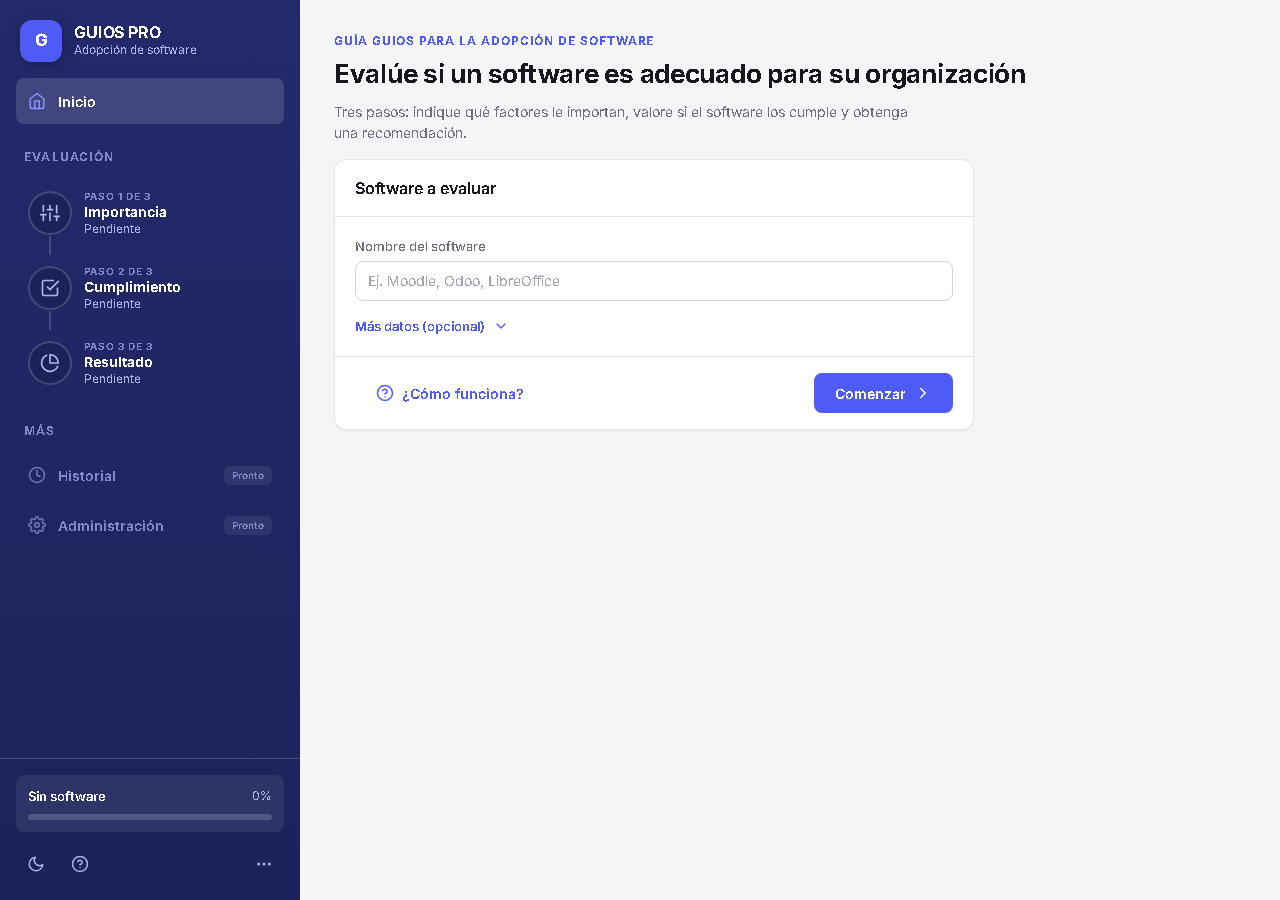
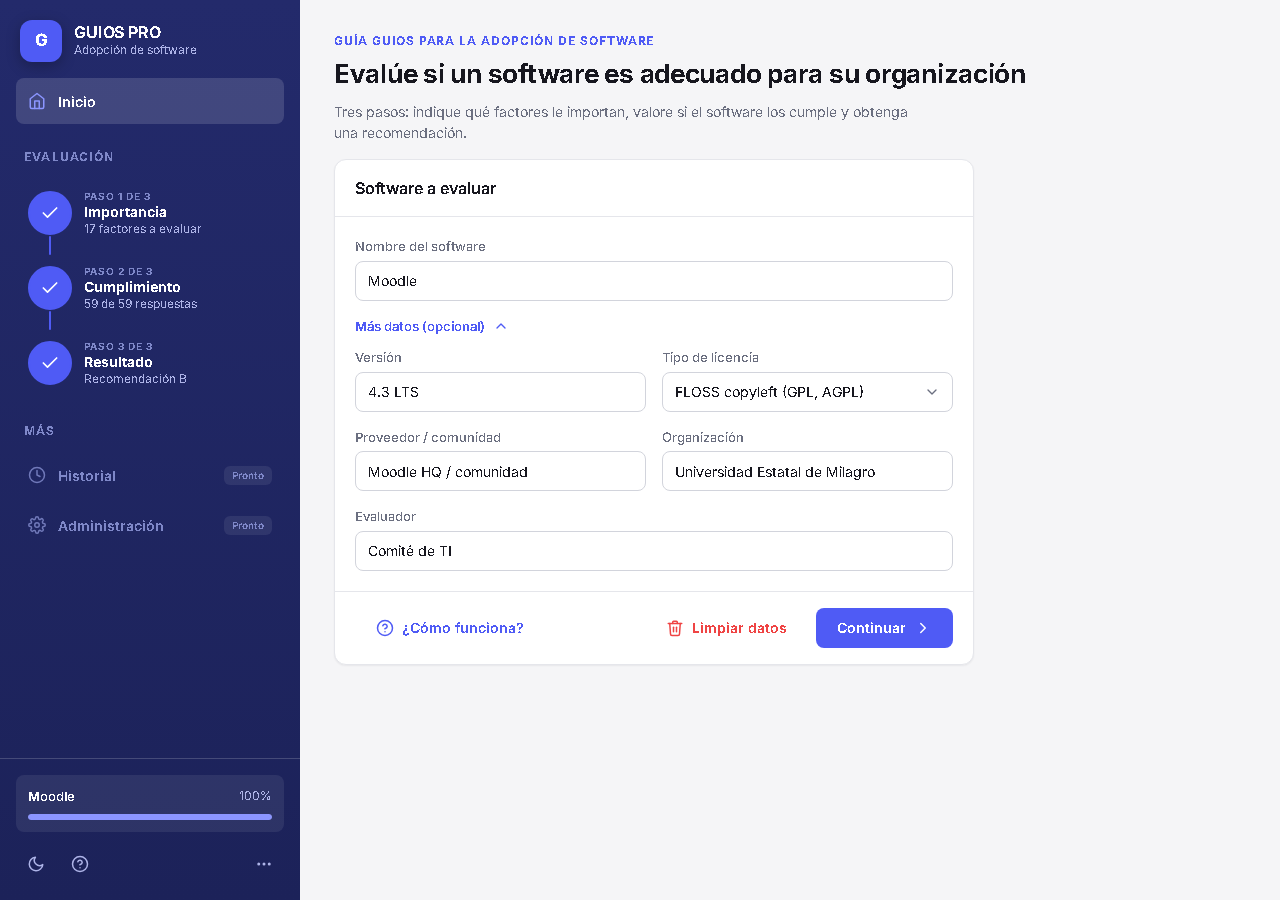
feat: botón «Limpiar datos» para empezar una evaluación nueva
- Aparece en el pie de la tarjeta de Inicio cuando hay datos guardados y en el
  menú ⋯; pide confirmación y recuerda exportar el JSON antes de borrar.
- Nuevo modificador .btn-ghost.is-danger para acciones destructivas discretas.
- Documentación (HU-07, RF-09 y sistema de diseño) y capturas actualizadas.

diff --git a/app/js/app.js b/app/js/app.js
@@ -263,7 +263,7 @@
       <button role="menuitem" data-action="export-json">${icon("download", 16)} Exportar evaluación (JSON)</button>
       <button role="menuitem" data-action="print">${icon("printer", 16)} Exportar informe (PDF)</button>
       <hr />
-      <button role="menuitem" class="is-danger" data-action="reset">${icon("trash", 16)} Reiniciar evaluación</button>
+      <button role="menuitem" class="is-danger" data-action="reset">${icon("trash", 16)} Limpiar datos</button>
     </div>`;
   }
 
@@ -317,6 +317,7 @@
   function renderInicio(result) {
     const sw = state.software;
     const started = Object.keys(state.subfactores).length > 0;
+    const hayDatos = started || state.paso1Confirmado || Object.values(sw).some((v) => v);
     return `
       <div class="screen-header">
         <div>
@@ -353,6 +354,7 @@
           <div class="card-footer">
             <button class="btn btn-ghost" data-action="how">${icon("help")} ¿Cómo funciona?</button>
             <span class="spacer"></span>
+            ${hayDatos ? `<button class="btn btn-ghost is-danger" data-action="reset">${icon("trash")} Limpiar datos</button>` : ""}
             <button class="btn btn-primary" data-nav="1">${started ? "Continuar" : "Comenzar"} ${icon("chevronRight")}</button>
           </div>
         </section>
@@ -716,9 +718,9 @@
 
   function reset() {
     popup({
-      title: "¿Reiniciar la evaluación?",
-      html: "<p>Se borrarán las respuestas y los datos del software guardados en este navegador.</p>",
-      confirmLabel: "Reiniciar",
+      title: "¿Limpiar los datos de la evaluación?",
+      html: "<p>Se borrarán el software registrado, las importancias y todas las respuestas guardadas en este navegador. Exporte el JSON antes si desea conservarlos.</p>",
+      confirmLabel: "Limpiar datos",
       danger: true,
       onConfirm: () => {
         state = E.initialState(DATA);
@@ -726,7 +728,7 @@
         ui.screen = 0;
         ui.factor = null;
         render();
-        toast("Evaluación reiniciada");
+        toast("Datos borrados: puede iniciar una nueva evaluación");
       },
     });
   }

diff --git a/app/css/components.css b/app/css/components.css
@@ -125,6 +125,12 @@ textarea {
 .btn-ghost:hover:not(:disabled) {
   background: var(--color-primary-subtle);
 }
+.btn-ghost.is-danger {
+  color: var(--color-danger);
+}
+.btn-ghost.is-danger:hover:not(:disabled) {
+  background: var(--color-danger-subtle);
+}
 .btn-danger {
   background: var(--color-surface);
   color: var(--color-danger);

diff --git a/scripts/screenshots.py b/scripts/screenshots.py
@@ -30,7 +30,7 @@ BROWSER = next((c for c in CANDIDATES if c and Path(c).exists()), None)
 
 # (nombre, hash, query, ancho, alto)
 SHOTS = [
-    ("00-inicio", "inicio", "?theme=light", 1280, 900),
+    ("00-inicio", "inicio", "?demo=1&theme=light", 1280, 900),
     ("01-paso-1-2", "paso-1-2", "?theme=light", 1280, 1300),
     ("02-paso-3-4", "paso-3-4", "?demo=1&theme=light", 1280, 1000),
     ("03-paso-5-6", "paso-5-6", "?demo=1&theme=light", 1280, 1300),

diff --git a/docs/SPRINT-0.md b/docs/SPRINT-0.md
@@ -88,7 +88,7 @@ Interfaz sin guía                          → UI kit consistente, responsive y
 | RF-06 | Clasificar cada factor evaluado en la matriz FODA según alcance y umbral. | Alta | 0 ✔ |
 | RF-07 | Emitir la recomendación A/B/C con el texto de la matriz e indicar los factores críticos. | Alta | 0 ✔ |
 | RF-08 | Exportar el informe (PDF) y los datos (JSON); importar una evaluación previa. | Media | 0 ✔ |
-| RF-09 | Guardar el avance automáticamente y permitir reiniciar la evaluación con confirmación. | Media | 0 ✔ |
+| RF-09 | Guardar el avance automáticamente y permitir limpiar los datos de una evaluación anterior, con confirmación. | Media | 0 ✔ |
 | RF-10 | Autenticación con roles Administrador / Evaluador / Decisor. | Alta | 2 |
 | RF-11 | Persistir evaluaciones en servidor con historial por organización. | Alta | 2-3 |
 | RF-12 | Administrar el catálogo (factores, subfactores, reglas) desde la interfaz. | Media | 3 |
@@ -118,7 +118,7 @@ Interfaz sin guía                          → UI kit consistente, responsive y
 | HU-04 | Como evaluador quiero valorar los subfactores de cada factor relevante. | Lista lateral con progreso n/N por factor; dropdown de 4 niveles por subfactor; ponderación visible al completar. | Alta | 5 | 0 ✔ |
 | HU-05 | Como decisor quiero ver la matriz FODA y la recomendación para decidir. | KPIs F/O/D/A, cuadrantes con factores y ponderación, tarjeta de recomendación A/B/C con factores críticos, tabla detallada. | Alta | 8 | 0 ✔ |
 | HU-06 | Como decisor quiero exportar el informe para presentarlo al comité. | Botón Exportar PDF (impresión con cabecera del informe) y JSON; importar JSON restaura la evaluación. | Media | 3 | 0 ✔ |
-| HU-07 | Como usuario quiero que mi avance no se pierda al cerrar el navegador. | Estado en localStorage; reinicio con pop-up de confirmación. | Media | 2 | 0 ✔ |
+| HU-07 | Como usuario quiero que mi avance no se pierda al cerrar el navegador y poder empezar de cero cuando cambie de proyecto. | Estado en localStorage; botón «Limpiar datos» en Inicio y en el menú ⋯, con pop-up de confirmación. | Media | 2 | 0 ✔ |
 | HU-13 | Como usuario quiero una interfaz simple, con modo oscuro y navegación clara. | Tres pasos con lenguaje llano; detalle de cálculo oculto tras "Ver cálculo"/secciones plegables; botón de tema; barra lateral con los pasos uno a uno y secciones futuras (Historial, Administración). | Media | 3 | 0 ✔ |
 | HU-08 | Como administrador quiero gestionar usuarios y roles. | CRUD de usuarios, roles Administrador/Evaluador/Decisor, contraseñas cifradas. | Alta | 5 | 2 |
 | HU-09 | Como evaluador quiero guardar evaluaciones en el servidor y consultarlas después. | API REST + PostgreSQL (`db/schema.sql`); listado por organización; estados En proceso/Completada. | Alta | 8 | 2-3 |

diff --git a/docs/DESIGN-SYSTEM.md b/docs/DESIGN-SYSTEM.md
@@ -36,7 +36,7 @@ Implementación en CSS del UI kit de referencia (capturas: Pop-Up, List, Action 
 
 | Clase | UI kit | Notas |
 |---|---|---|
-| `.btn.btn-primary` / `.btn-secondary` / `.btn-ghost` / `.btn-danger` | Button (filled / outline) | `.btn-sm`, `.btn-block`, `.btn-icon` (circular) |
+| `.btn.btn-primary` / `.btn-secondary` / `.btn-ghost` / `.btn-danger` | Button (filled / outline) | `.btn-sm`, `.btn-block`, `.btn-icon` (circular), `.btn-ghost.is-danger` (acción destructiva discreta, como «Limpiar datos») |
 | `.input`, `.field > label` | Placeholder input del Pop-Up | `textarea.input` |
 | `.select` | Dropdown (Default / Hover / Expanded / Disabled) | `select` nativo estilizado; `.is-level-N` colorea por valor |
 | `.segmented` | — (extensión) | Alternativa compacta al dropdown para Interno/Externo |
